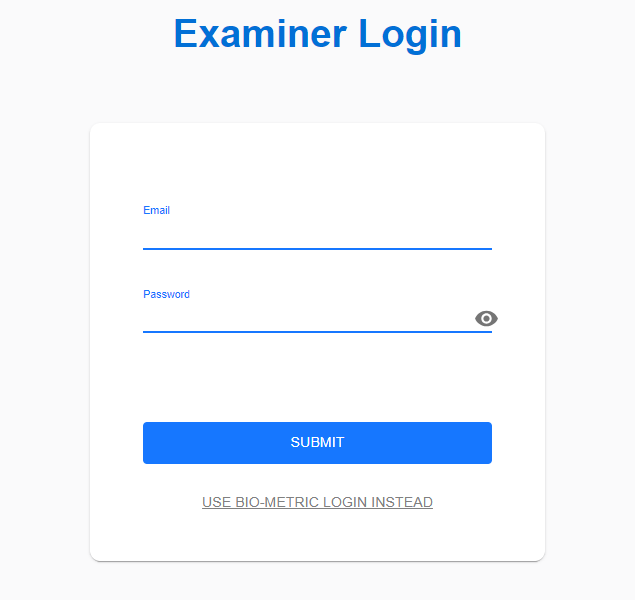
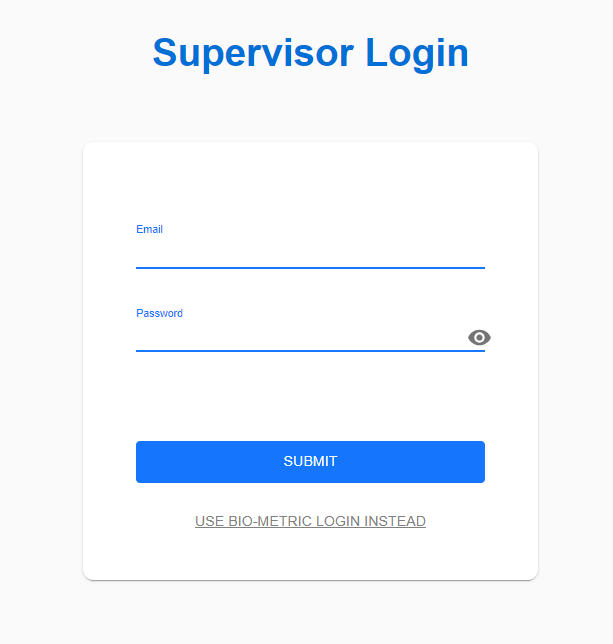
update examiner with supervisor

diff --git a/README.md b/README.md
@@ -4,29 +4,29 @@ This is the front end app for the exam attendance.
 
 # Project Screen Shot(s)
 
-### Examiner login page
+### Supervisor login page
 
-Examiner can login using fingerprint.
+Supervisor can login using fingerprint.
 ![Alt text](./src/images/image.png)
 
-### Examiner login page
+### Supervisor login page
 
-Examiner can use email and password to login.
+Supervisor can use email and password to login.
 ![Alt text](./src/images/image-1.png)
 
 ### Exam schedule page
 
-After the examiner logs in, he/she can view the exams assigned to him/her for the current day.
+After the supervisor logs in, he/she can view the exams assigned to him/her for the current day.
 ![Alt text](./src/images/image-2.png)
 
 ### Exam attendance monitoring page
 
-When the examiner selects an exam from the Exam Schedule Page, he/she will be directed to the attendance monitoring page. Examiner can view all the students enrolled for that module along with the thier attendance details.
+When the supervisor selects an exam from the Exam Schedule Page, he/she will be directed to the attendance monitoring page. Supervisor can view all the students enrolled for that module along with the thier attendance details.
 ![Alt text](./src/images/image-3.png)
 
 ### Student atendance marking page
 
-Once examiner press `Start Attending` on `Attendance Monitoring` page. This window will be opened to take attendance of students.
+Once supervisor press `Start Attending` on `Attendance Monitoring` page. This window will be opened to take attendance of students.
 ![Alt text](./src/images/image-4.png)
 
 ### Student atendance marking page
